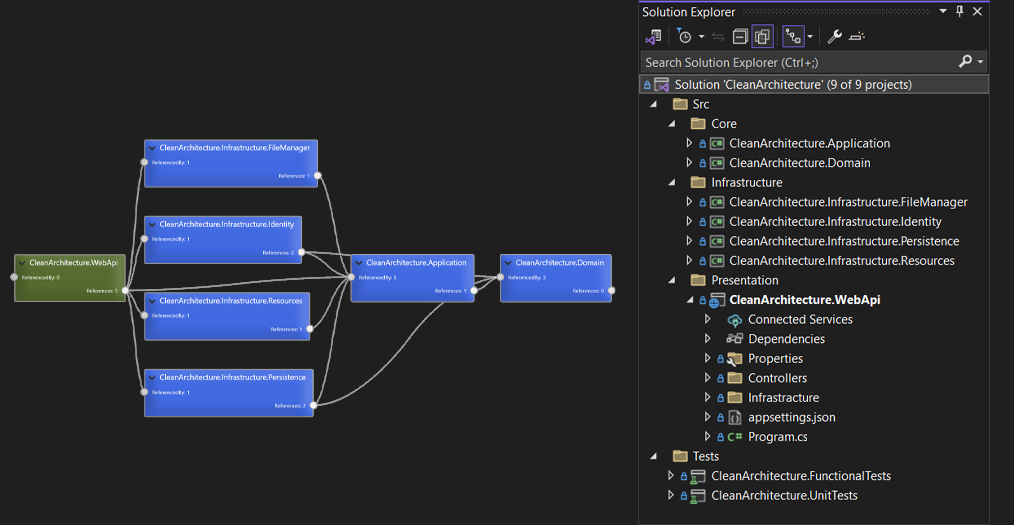
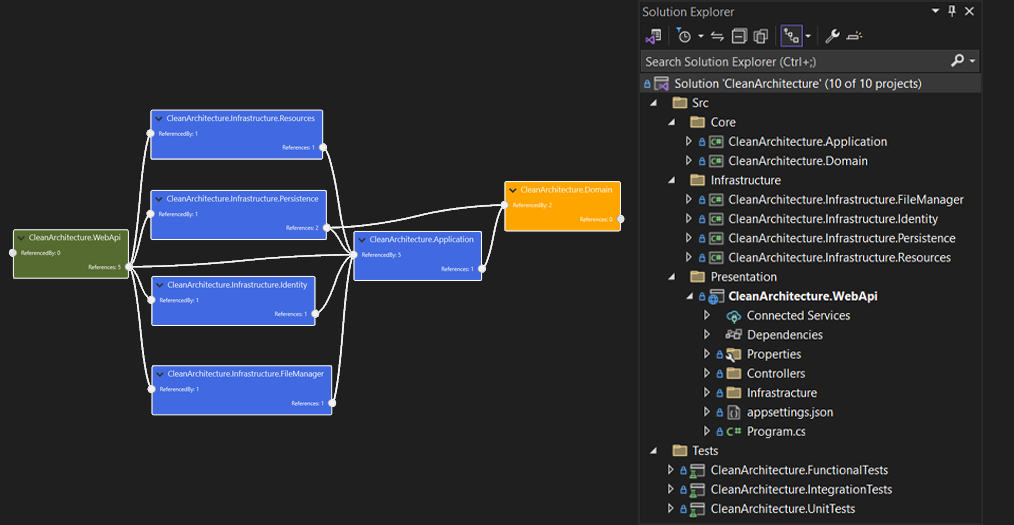
add IntegrationTests doc

Changed region(s): [[0.0, 0.1829, 0.6114, 0.8229], [0.6114, 0.0, 0.9783, 1.0]]

diff --git a/Documents/IntegrationTests.md b/Documents/IntegrationTests.md
@@ -1,0 +1,35 @@
+# [ASP Dotnet Core Clean Architecture](../README.md) - Integration Tests
+
+## Introduction
+
+This project contains integration tests to ensure the correct functioning of various components of the system using [EF Core](https://github.com/dotnet/efcore). The tests cover operations such as adding, deleting, and updating product entities.
+
+## Tools Used
+
+- [Shouldly](https://github.com/shouldly/shouldly)
+  - An assertion library that improves the readability and understandability of tests.
+- [xUnit](https://github.com/xunit/xunit)
+  - A unit testing framework for .NET.
+
+## Code Structure
+
+### [BaseEfRepoTestFixture](../Source/Tests/CleanArchitecture.IntegrationTests/Data/BaseEfRepoTestFixture.cs)
+- This base class is used for initial setup and creating instances of the in-memory database.
+
+### [EfRepositoryAdd](../Source/Tests/CleanArchitecture.IntegrationTests/Data/EfRepositoryAdd.cs)
+- This class includes tests for adding products to the database.
+
+### [EfRepositoryDelete](../Source/Tests/CleanArchitecture.IntegrationTests/Data/EfRepositoryDelete.cs)
+- This class includes tests for deleting products from the database.
+
+### [EfRepositoryUpdate](../Source/Tests/CleanArchitecture.IntegrationTests/Data/EfRepositoryUpdate.cs)
+- This class includes tests for updating products in the database.
+
+## Conclusion
+
+This documentation helps you understand the structure and methods of executing integration tests in a project using [EF Core](https://github.com/dotnet/efcore). These tests cover operations such as adding, deleting, and updating product entities, utilizing an in-memory database for fast and independent execution from the environment.
+
+
+
+
+

diff --git a/README.md b/README.md
@@ -108,6 +108,7 @@ If you found this Implementation helpful or used it in your Projects, do give it
 - TestProjects
     - [FunctionalTests](./Documents/FunctionalTests.md)
     - [UnitTests](./Documents/UnitTests.md)
+    - [IntegrationTests](./Documents/IntegrationTests.md)
 
 # Prerequisites
 
